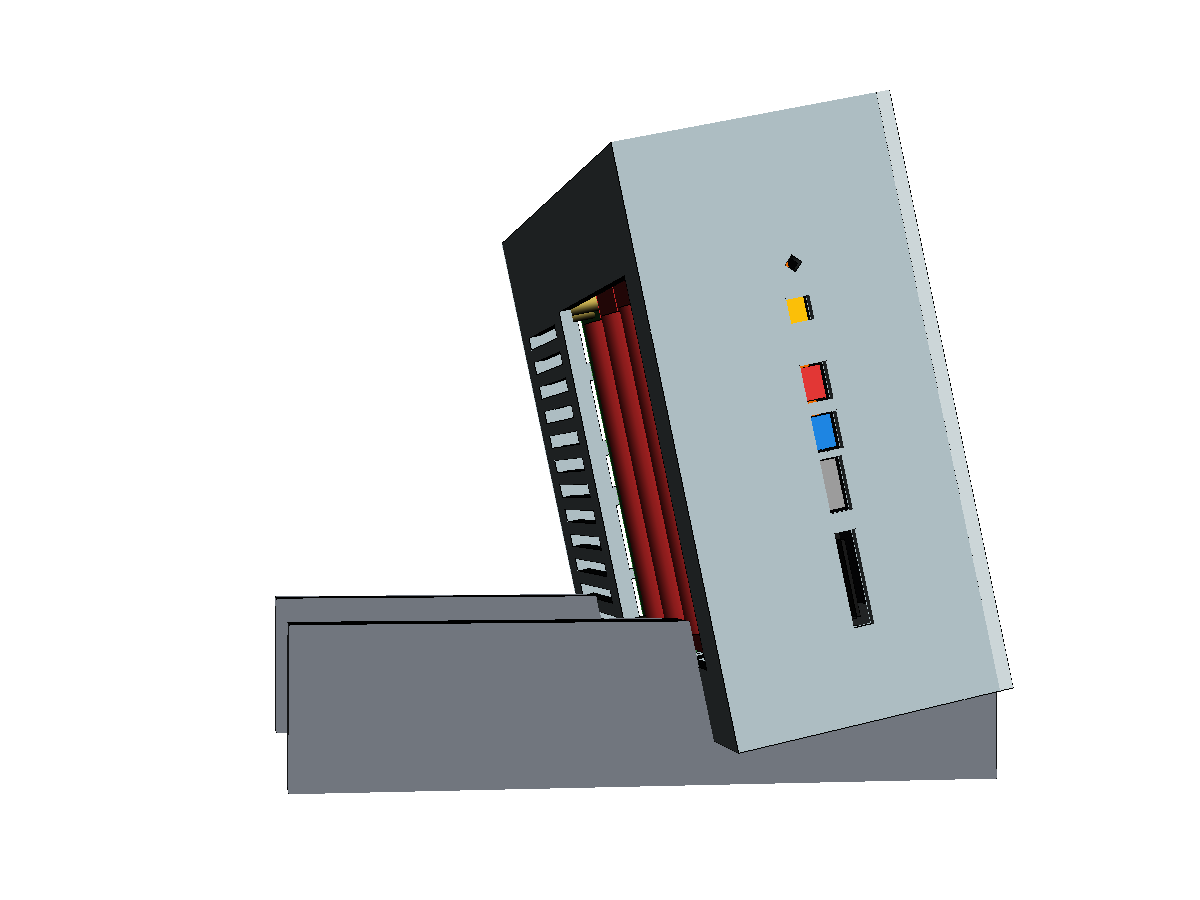
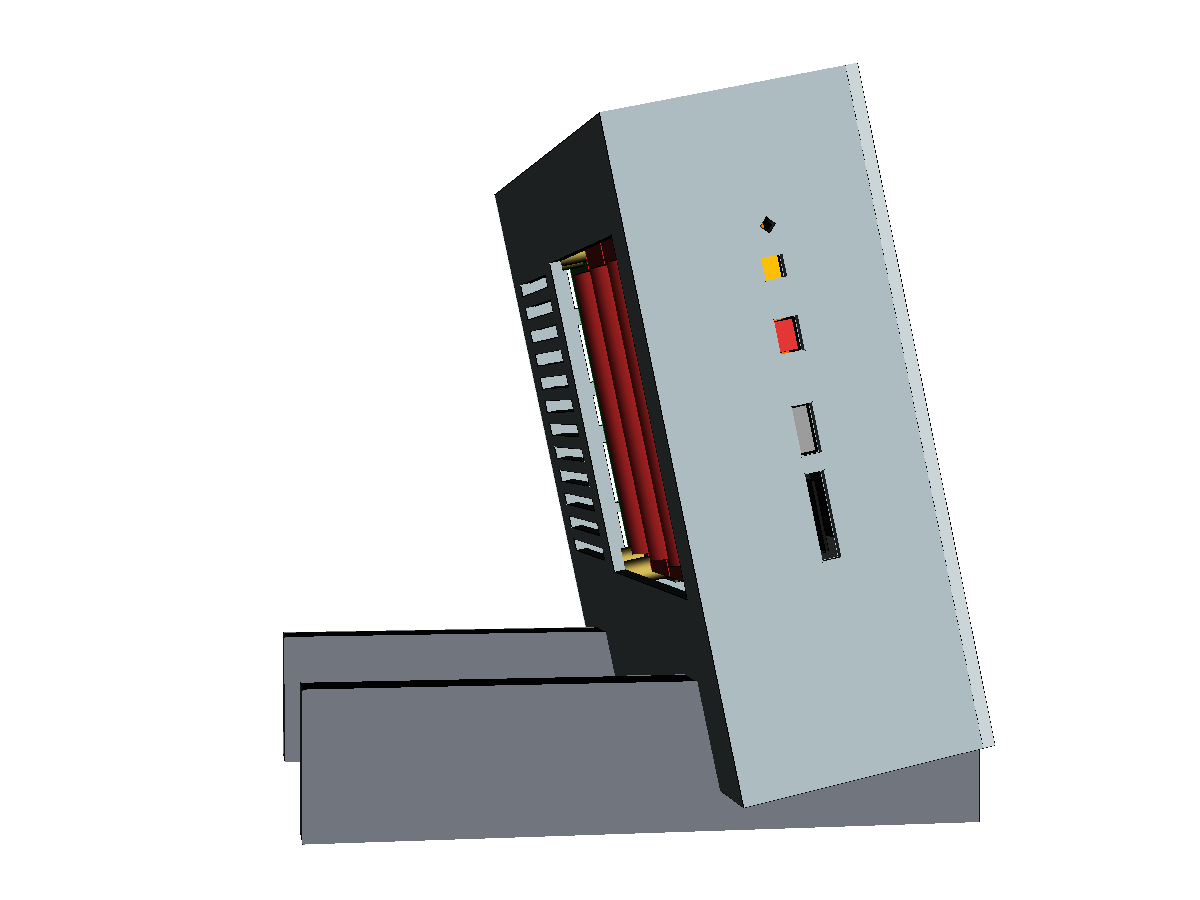
Add Meshtastic OLED front panel to the study and enclosure
Meshtastic stock firmware auto-detects an I2C OLED at 0x3C, so the
nRF52840 node gets a 1.3" SH1106 128x64 screen (Heltec V3 style, larger
for desk viewing). The enclosure grows a 26 mm front "chin" under the
5" TJC display carrying the OLED and the MESH button on a small
front-panel board; the chin cavity doubles as the intake plenum.

Changed region(s): [[0.2158, 0.0622, 0.8633, 0.9644], [0.6167, 0.28, 0.74, 0.7156]]

diff --git a/case/meshtastic-concept/enclosure_concept.py b/case/meshtastic-concept/enclosure_concept.py
@@ -41,6 +41,10 @@ P = dict(
     # enclosure
     wall=2.5, back=2.5, front=2.5, clear=1.0,
     bottom_wall=7.0,            # thick bottom rail: carries two front-plate screw bosses outside the board stack
+    # front "chin" under the 5" display: Meshtastic OLED + MESH button on a small front-panel board
+    chin=26.0,
+    oled_panel=(34.5, 23.0, 1.8), oled_va=(29.42, 14.7),   # 1.3" SH1106 128x64 (typical panel), y-size, x-size, t
+    mesh_btn_dy=-34.0,          # MESH button offset from the OLED centre (viewer's right is -Y)
     top_parts=9.0,              # tallest part on the main-board top
     plenum=13.0,                # top air plenum (fan, SMA bodies, pigtails) beyond X = 85
     # fan: 30x30x10 mm 5 V, axis along X, exhausting up through the top wall
@@ -91,7 +95,6 @@ def build(p=P):
     parts["main_board"] = mb
     # side-panel controls on the +Y edge: USB-C, MESH button, power button, GPS switch, GPS LED
     parts["usb_c"] = box(30, p["pcb_y2"] - 7.5, z_mt, 39, p["pcb_y2"] + 1.0, z_mt + 3.3)
-    parts["mesh_button"] = box(41, p["pcb_y2"] - 6, z_mt, 47, p["pcb_y2"] + 1.0, z_mt + 4)
     parts["power_button"] = box(50, p["pcb_y2"] - 6, z_mt, 56, p["pcb_y2"] + 1.0, z_mt + 4)
     parts["gps_switch"] = box(62, p["pcb_y2"] - 5, z_mt, 70.6, p["pcb_y2"] + 1.5, z_mt + 3.5)
     parts["gps_led"] = box(73.5, p["pcb_y2"] - 2, z_mt, 75.5, p["pcb_y2"], z_mt + 1)
@@ -117,14 +120,14 @@ def build(p=P):
     disp_t = p["disp_back"] + p["disp_pcb"] + p["lcd_t"] + p["touch_gap"]
     z_front_in = z_mt + p["top_parts"] + 2.0 + disp_t
     z_back_in = z_mb - p["cell_h"] - p["clear"]
-    ix0 = -p["clear"]
+    ix0 = -p["clear"] - p["chin"]
     ix1 = p["sbc_w"] + p["clear"] + p["plenum"]
     iy0 = -2.0 - p["clear"]
     iy1 = p["pcb_y2"] + 1.0 + p["clear"]
     ox0, ox1, oy0, oy1 = ix0 - p["bottom_wall"], ix1 + p["wall"], iy0 - p["wall"], iy1 + p["wall"]
     z_out_back = z_back_in - p["back"]
     z_out_front = z_front_in + p["front"]
-    cx, cy = (ix0 + ix1) / 2, (iy0 + iy1) / 2       # display centred on the front face
+    cx, cy = (-p["clear"] + ix1) / 2, (iy0 + iy1) / 2   # 5" display centred above the chin
     # display: LCD stack against the front plate (touch gap), PCB behind it, XH connector at the -Y end
     z_lcd = z_front_in - p["touch_gap"]
     z_pcb = z_lcd - p["lcd_t"]
@@ -168,13 +171,25 @@ def build(p=P):
             bosses.append(cq.Workplane("XY").circle(3.5).circle(1.25).extrude(p["lcd_t"] + p["touch_gap"])
                           .translate((cx + sx * hx_, cy + sy * hy_, z_pcb)))
     front = front.union(union_all(bosses))
+    # chin: front-panel board with the Meshtastic OLED and the MESH button
+    xc = ix0 + p["chin"] / 2
+    ow, oh, ot = p["oled_panel"]
+    z_cp = z_front_in - 0.3 - ot                    # chin PCB front face
+    parts["chin_board"] = box(ix0 + 1.0, cy - 45, z_cp - 1.6, -p["clear"] - 1.0, cy + 45, z_cp)
+    parts["oled"] = box(xc - oh / 2, cy - ow / 2, z_cp, xc + oh / 2, cy + ow / 2, z_cp + ot)
+    yb = cy + p["mesh_btn_dy"]
+    parts["mesh_button"] = cq.Workplane("XY").circle(2.4).extrude(z_out_front + 0.8 - z_cp).translate((xc, yb, z_cp))
+    vw, vh = p["oled_va"]
+    front = front.cut(box(xc - vh / 2 - 0.5, cy - vw / 2 - 0.5, z_front_in - 1, xc + vh / 2 + 0.5, cy + vw / 2 + 0.5,
+                          z_out_front + 1))
+    front = front.cut(cq.Workplane("XY").circle(2.75).extrude(10).translate((xc, yb, z_front_in - 2)))
     for (px, py) in screw_pts:
         front = front.cut(cq.Workplane("XY").circle(1.7).extrude(10).translate((px, py, z_front_in - 1)))
     # side face (Y = 0): Bubblegum ports
     for (a, b, zt) in ((2, 14, 2.6), (17.5, 32.5, 7.0), (38, 45, 4.0), (49.5, 63.7, 8.0), (69, 83, 8.0)):
         tub = tub.cut(box(a - 0.5, oy0 - 1, -p["sbc_t"] - 0.5, b + 0.5, iy0 + 1, zt))
     # side face (+Y): USB-C, MESH button, power button, GPS switch, GPS LED
-    for (a, b, zt) in ((29.5, 39.5, 3.8), (40.5, 47.5, 4.5), (49.5, 56.5, 4.5), (64.0, 68.6, 4.0)):
+    for (a, b, zt) in ((29.5, 39.5, 3.8), (49.5, 56.5, 4.5), (64.0, 68.6, 4.0)):
         tub = tub.cut(box(a, iy1 - 1, z_mt - 0.5, b, oy1 + 1, z_mt + zt))
     # console opening: fits a 6-pin Dupont / FTDI cable housing (about 15.5 x 2.6 mm)
     tub = tub.cut(box(8.8, iy1 - 1, z_mt - 0.6, 26.2, oy1 + 1, z_mt + 3.4))
@@ -239,8 +254,9 @@ def build(p=P):
     parts["front_plate"] = front
     # air-flow arrows (visual only): up the SoC chimney into the fan, passive up the cell column
     arrows = []
-    for (y, z, x_from, x_to) in ((20, 4, 2, 70), (45, 4, 2, 70), (30, 16, 2, 70),
-                                 (90, -8, 2, 80), (120, 16, 2, 80)):
+    xa = ix0 + 4
+    for (y, z, x_from, x_to) in ((20, 4, xa, 70), (45, 4, xa, 70), (30, 16, xa, 70),
+                                 (90, -8, xa, 80), (120, 16, xa, 80)):
         shaft = cq.Workplane("YZ").circle(0.8).extrude(x_to - x_from - 6).translate((x_from, y, z))
         head = cq.Workplane("YZ").circle(2.5).workplane(offset=6).circle(0.1).loft().translate((x_to - 6, y, z))
         arrows.append(shaft.union(head))
@@ -274,7 +290,7 @@ COLORS = dict(bubblegum96=(0.18, 0.49, 0.20), soc_heatsink=(0.75, 0.75, 0.78), l
               main_board=(0.08, 0.40, 0.75), antennas=(0.15, 0.15, 0.15), sma_bulkheads=(0.83, 0.69, 0.22),
               usb_c=(0.62, 0.62, 0.62), power_button=(0.90, 0.22, 0.21), mesh_button=(0.12, 0.53, 0.90),
               gps_switch=(1.0, 0.76, 0.03), gps_led=(0.2, 1.0, 0.2), fan=(0.2, 0.2, 0.25),
-              console_header=(0.1, 0.1, 0.1),
+              console_header=(0.1, 0.1, 0.1), chin_board=(0.1, 0.45, 0.2), oled=(0.02, 0.02, 0.05),
               plenum_divider=(0.55, 0.6, 0.62), airflow=(0.1, 0.6, 1.0),
               mesh_gps_zone=(0.56, 0.14, 0.67), power_zone=(0.94, 0.42, 0.0), mmdvm_zone=(0.0, 0.54, 0.48),
               cells_1s4p=(0.78, 0.16, 0.16), display=(0.10, 0.10, 0.12),

diff --git a/docs/meshtastic-gps-study.md b/docs/meshtastic-gps-study.md
@@ -14,7 +14,8 @@
 | GPS 給誰用？ | GPS 由 Meshtastic MCU 控制；NMEA 同時分一路給主機（經 I2C 轉 UART），讓 gpsd、APRS／閘道器也拿得到位置。 |
 | 4 顆 18650 並聯 + 供電給 Bubblegum？ | **可行，建議 1S4P。** 電池升壓到 12 V，經擴充座的 SYS_DCIN 反向餵 Bubblegum（96Boards 規格明確允許）。充電建議 USB-C PD 9 V，只用 5 V 的話，帶主機運作時幾乎充不進去。 |
 | 螢幕 TJC8048X550 | 接 MMDVM 板的 NXT 透傳埠（STM32 USART2），`Port=modem`。**X5 系列的 TX 是 5 V，STM32 的 PA3 不耐 5 V，要串 1 kΩ**；排針腳序也跟 r1.3 相反。目前的 MMDVM-Host 已把螢幕功能拆到 MMDVM-Display（走 MQTT）。沒有現成 800×480 的 TJC 畫面檔，要自己用 TJC 編輯器做。詳見第 6 節。 |
-| 外盒 | **3D 列印、直立式桌上型**：螢幕朝前、後仰 12°，四支天線從頂邊朝上，頂部 30 mm 風扇往上排風，底部進風形成煙囪氣流。外形約 110（高）× 156（寬）× 52（深）mm。詳見第 7 節。 |
+| Meshtastic 小螢幕 | **可以，不用改韌體。** 官方韌體會自動偵測 I2C 0x3C 上的 OLED（Heltec V3 用 0.96 吋 SSD1306）。本案建議 1.3 吋 SH1106 128×64，放在 5 吋螢幕下方的前面板，MESH 按鍵在旁邊。詳見第 3.2 節。 |
+| 外盒 | **3D 列印、直立式桌上型**：螢幕朝前、後仰 12°，四支天線從頂邊朝上，頂部 30 mm 風扇往上排風，底部進風形成煙囪氣流。5 吋螢幕下方有前面板（Meshtastic OLED＋MESH 鍵）。外形約 136（高）× 156（寬）× 52（深）mm。詳見第 7 節。 |
 
 ## 1. 需求
 
@@ -27,6 +28,8 @@
 7. GPS 開關：硬體滑動開關斷電，加上 Meshtastic 按鍵的軟體切換（兩者都做）。
 8. 外盒用 3D 列印，要能立在桌上直接看螢幕。
 9. 加小型散熱風扇，設計時考慮安裝與風道。
+10. Bubblegum 的 TTL console 直接在板上做好接口，方便接 USB-TTL。
+11. Meshtastic 要像 Heltec WiFi LoRa 32 V3 一樣有一塊小螢幕。
 
 ## 2. 主機：Bubblegum-96 現況
 
@@ -110,6 +113,25 @@
 
 下一步要從現有官方 variant（例如 RAK4631、Seeed XIAO nRF52840 Kit）中挑一個，照它的 `variant.h` 接腳，讓官方韌體直接能用。
 
+#### Meshtastic 小螢幕（使用者需求，2026-11-14）
+
+- **可行，不用改韌體：** Meshtastic 官方韌體開機時會偵測 I2C 位址 0x3C 上的 OLED，自動顯示節點、訊息、位置等頁面。
+  - Heltec WiFi LoRa 32 V3 板上就是 0.96 吋 128×64 SSD1306。
+  - nRF52840 板型一樣支援，例如 RAK4631 的 OLED 擴充模組就是 SSD1306。
+- **建議 1.3 吋 SH1106 128×64：**
+  - 介面、解析度跟 0.96 吋相同，但字大約 1.4 倍，放桌上約 50 cm 外看比較清楚。
+  - 可視區約 29.4×14.7 mm，面板外形約 34.5×23 mm（依實際料號確認）。
+  - 也可以用跟 Heltec 一樣的 0.96 吋 SSD1306，外盒開窗改小即可。
+- **接法：** 接在 **nRF52840 的 I2C**（不是主機的 I2C），照所選官方板型定義的 SDA／SCL 腳位，韌體才會自動抓到。
+- **操作：** MESH 按鍵移到 OLED 旁邊。官方韌體按一下切下一頁，連按三下切 GPS（長按等其他功能依所選板型而定，要標在外殼上）。
+- **耗電：** OLED 亮著時約 10–25 mA（依亮點多寡），韌體閒置一段時間會自動關螢幕，按鍵喚醒；對主機關機時一週左右的續航影響很小。
+- **不建議改用 Heltec V3 的 ESP32-S3：**
+  - 雖然多了 Wi-Fi，但耗電約是 nRF52840 的 5–10 倍，只跑 Meshtastic 時的續航會從一週掉到一兩天。
+  - Meshtastic 要上 MQTT 的話，可以用 MQTT Client Proxy 借主機或手機的網路。
+- **機構：** 5 吋螢幕四周邊框只有約 8–13 mm，放不下 OLED。所以外盒底部往下加高 26 mm，做成前面板（「下巴」）：
+  - 一片小前面板 PCB 放 OLED、MESH 按鍵，用一條 6-pin 排線（3.3 V、GND、SDA、SCL、按鍵、預留）接到主板的 Meshtastic 區。
+  - 下巴的空腔剛好是底部進風口後面的進氣室，兩個氣流柱的進風更均勻。
+
 ### 3.3 GPS
 - 候選模組：
   - Quectel L76K：UART，約 25 mA，Meshtastic 可自動偵測。
@@ -131,7 +153,7 @@
   - 主機上的小服務偵測到切換後，用 GPIO-G 重開 Meshtastic MCU，讓韌體重新偵測 GPS。
   - Meshtastic 主要在開機時偵測 GPS，執行中插拔的行為要用實機確認。
   - 主機沒開時，切到 ON 會在 Meshtastic 下次重開後生效。
-- **軟體開關（使用者決定兩者都做）：** 外殼後面加一顆「MESH」按鍵，接到所選 variant 定義的 user button 腳位。官方韌體連按三下會切換 GPS，不靠主機。
+- **軟體開關（使用者決定兩者都做）：** 「MESH」按鍵（在正面 OLED 旁邊）接到所選 variant 定義的 user button 腳位。官方韌體連按三下會切換 GPS，不靠主機。
   - 兩者的關係：硬體開關 OFF 時 GPS 一定沒電；開關 ON 時，連按三下可以在軟體上開關 GPS。
   - 注意同一顆按鍵在官方韌體裡還有其他功能（例如長按關機），要依所選 variant 的按鍵行為加註在外殼標示上。
 - **注意：** 主機的 gpsd 也吃同一顆 GPS，所以開關 OFF 時，APRS／閘道器的位置也會停。
@@ -244,6 +266,7 @@ USB-C ─TVS─ CH224K（PD 誘騙，要 9 V；來源不支援就退回 5 V）
 | Bubblegum-96（12 V） | 3–8 W **待實測** | 3.3–9.1 W |
 | TJC 5 吋螢幕（5 V） | 背光 0 約 150 mA，全亮約 280–330 mA → 0.75–1.65 W | 0.8–1.8 W |
 | MMDVM＋Meshtastic＋GPS（3.3 V） | 約 0.7 W | 約 0.9 W |
+| Meshtastic OLED（3.3 V，亮著時） | 10–25 mA → 0.03–0.08 W | 約 0.1 W |
 | 風扇（5 V，溫控） | 0–0.6 W | 0–0.65 W |
 | **合計** | | **約 5–12.5 W → 續航約 3–7.5 小時** |
 | 主機關機，只跑 Meshtastic＋GPS | 約 0.15 W | **約一週** |
@@ -342,7 +365,8 @@ USB-C ─TVS─ CH224K（PD 誘騙，要 9 V；來源不支援就退回 5 V）
 - **外殼結構：** 「桶身＋前蓋」兩件。
   - 桶身：背板＋四面牆，所有側面開孔、SMA、風扇都在這一件，強度最好。
   - 前蓋：裝螢幕。用 4 根 M3 螺絲鎖到桶身的熱熔螺母；兩根在頂部空腔，兩根在加厚的底邊（7 mm），都避開電路板，整疊電路板可以從前面直接放進去。
-- **外形：** 約 110（高）× 156（寬）× 52（深）mm；含天線站高約 335 mm。桶身約 100 cm³（PETG 約 125 g），前蓋約 25 cm³。
+- **前面板（下巴）：** 5 吋螢幕下方加高 26 mm，放 1.3 吋 OLED（Meshtastic）和 MESH 按鍵（第 3.2 節）。
+- **外形：** 約 136（高）× 156（寬）× 52（深）mm；含天線站高約 360 mm。
 
 ### 7.2 天線（頂邊，垂直朝上）
 
@@ -417,12 +441,13 @@ USB-C ─TVS─ CH224K（PD 誘騙，要 9 V；來源不支援就退回 5 V）
 ### 7.5 側面開孔
 
 - **右側面**（Bubblegum 端，直立時在使用者右手邊）：microSD、HDMI、micro-USB、USB-A ×2（USB 網卡插這裡）。Bubblegum 的 DC 插座不開孔，避免同時插變壓器。
-- **左側面**（主板延伸端，由上往下）：GPS LED 導光孔、GPS 滑動開關、電源鍵、MESH 按鍵、USB-C 充電、**Bubblegum console 接頭**（6-pin，3.3 V）。
+- **左側面**（主板延伸端，由上往下）：GPS LED 導光孔、GPS 滑動開關、電源鍵、USB-C 充電、**Bubblegum console 接頭**（6-pin，3.3 V）。
+- **正面**：5 吋 TJC 螢幕；下方前面板有 1.3 吋 OLED 開窗和 MESH 按鍵。
 - **背面**：電池蓋（待設計成獨立零件，附警示標籤）、SoC 後方進風槽。
 
 預覽圖：
 
-- `preview_desk_front.png`：桌上直立，正面。
+- `preview_desk_front.png`：桌上直立，正面（5 吋螢幕、下方 OLED 與 MESH 鍵）。
 - `preview_desk_back.png`：背面，電池蓋與風扇格柵。
 - `preview_airflow.png`：拿掉前蓋，藍色箭頭是氣流。
 - `preview_side_ports.png`：左側面的按鍵、開關、USB-C 與 console 接頭開孔。
@@ -452,11 +477,12 @@ USB-C ─TVS─ CH224K（PD 誘騙，要 9 V；來源不支援就退回 5 V）
 - ~~GPS 開關~~：硬體滑動開關斷電＋Meshtastic 按鍵連按三下，兩者都做。
 - ~~螢幕版本~~：TJC8048X550_011R（電阻觸控）。
 - ~~Bubblegum console~~：板上做 1.8↔3.3 V 轉換＋6-pin FTDI 腳序接頭，外盒側面開孔（第 3.5 節）。
+- ~~Meshtastic 小螢幕~~：1.3 吋 SH1106 OLED 接 nRF52840 I2C，放在正面下巴，MESH 按鍵移到旁邊。
 
 待決定／待實測：
 
 1. Bubblegum-96 實測：使用者決定**先跳過**。設計已改成兩種情況都能應付（第 2.2 節表格），板子做好後用 INA226 和實際開關機行為驗證，再決定預留零件要不要焊。
-2. Meshtastic 方案（建議 A），以及要沿用哪個官方 variant 的腳位。
+2. Meshtastic 方案（建議 A），以及要沿用哪個官方 variant 的腳位（要同時支援 OLED、user button、GPS 致能腳）。
 3. GPS 模組：L76K 或 MAX-M10S；GPS 天線用外接磁吸，或頂部空腔放有源陶瓷天線。
 4. 電芯型號（建議同一款無保護板平頭電芯，例如 Samsung 30Q／35E），以及電池座的實測溫升。
 5. TW 區 LoRa 的法規解讀。
